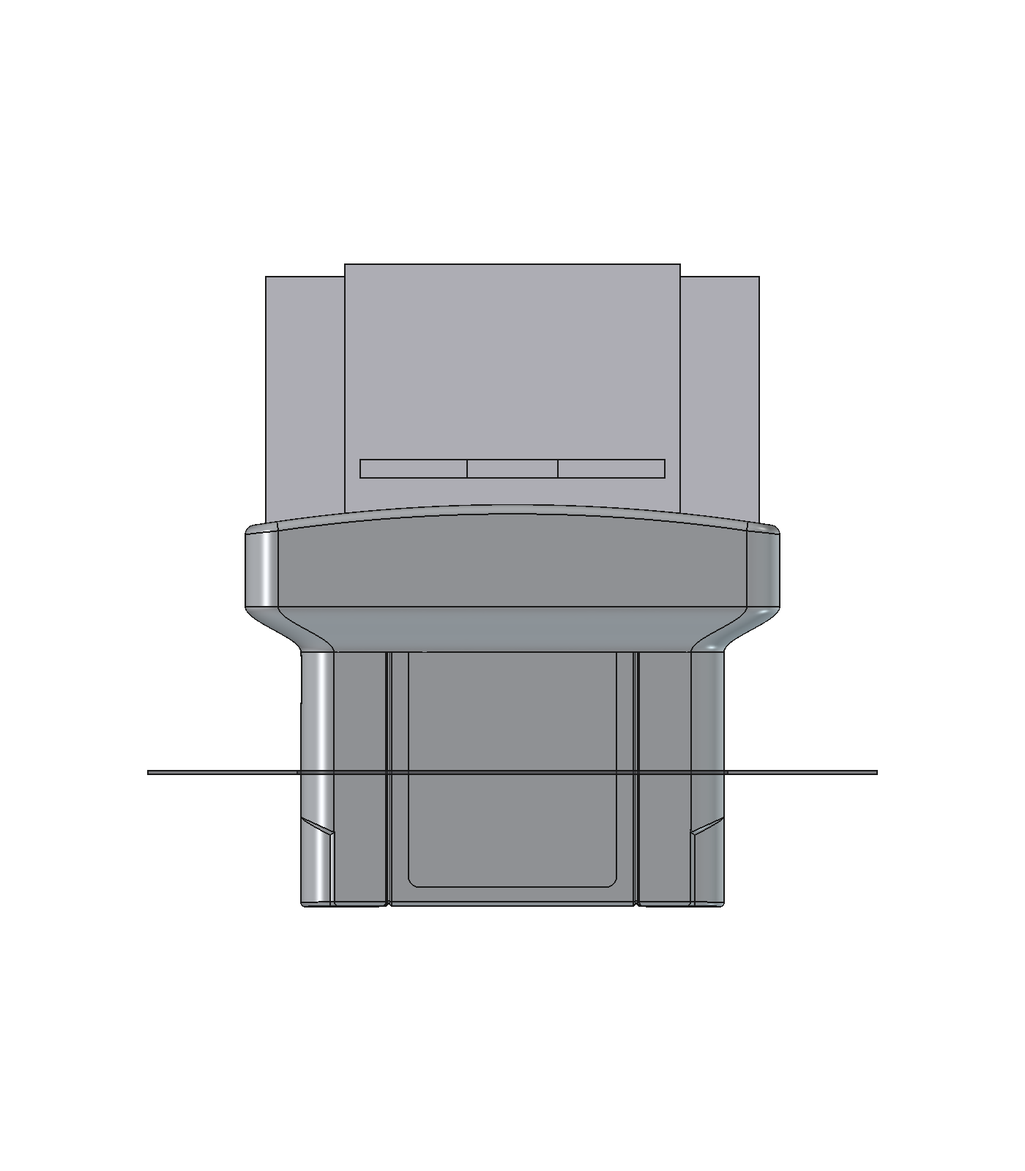
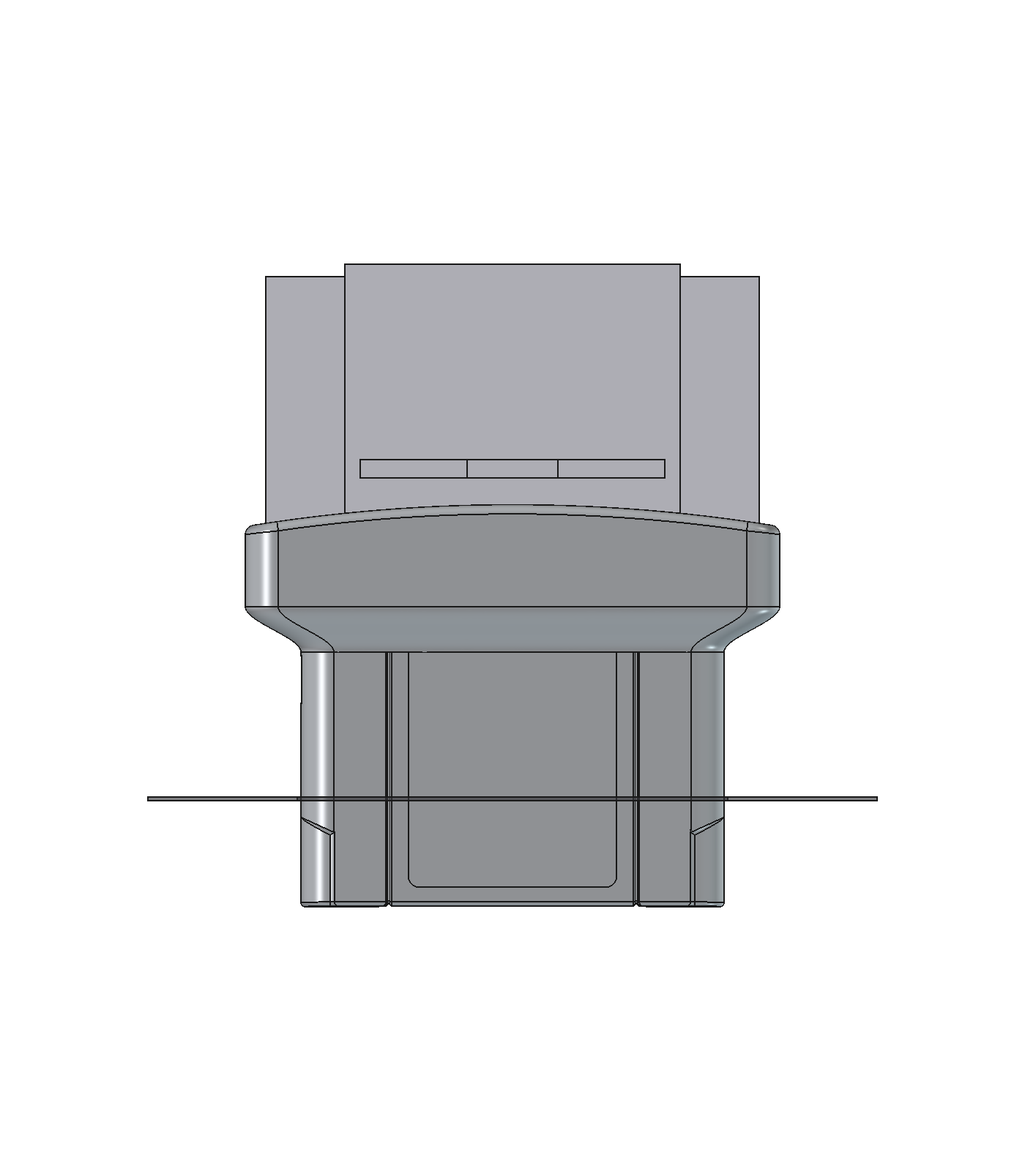
v2 shell: console top measured by the owner; shorter variant drawn as a proposal
The owner measured 30 mm from the console's top surface down to the floor of the
cartridge hole, the same on the N64 and the M64. With the SummerCart64 shell bottom
12.31 mm below the shoulders the console top is 17.7 mm above them (the model had an
assumed 25).

sn64_v2_shell.py now draws two geometries, picked by VARIANT:
- board-70: the board as it is (tracked STEP, STL, shell-*.png); only the console
  line moved.
- short-60: USB-C centre 32.5, 5 mm of plain wall above its window, flare 44-60,
  board top edge 60. Shell 100.3 mm tall instead of 110.3. Pictures short-60-*.png
  and compare-now-vs-short-60.png; its STEP and STL are generated locally.

The board is not changed. The proposal and what it would need on the board are in
docs/design/v2-shell.md; the measurement is in docs/dimensions.md.

Changed region(s): [[0.1536, 0.6562, 0.86, 0.6875]]

diff --git a/mechanical/sn64-v2-shell/sn64_v2_shell.py b/mechanical/sn64-v2-shell/sn64_v2_shell.py
@@ -31,21 +31,34 @@ label side).
 
 Sourced
   SummerCart64 shell geometry and frame (file above; measured in this session)
-  SummerCart64's own USB-C opening spans 25.8-39.2 mm above the shoulders, so the console top line
-      is below about 25 mm
+  console top surface: the owner measured 30 mm from it down to the plastic floor of the cartridge
+      hole, where the cartridge shell rests, the same on the N64 and the M64 (2026-10-01). The shell
+      bottom is 12.31 below the shoulders, so the console top is 17.7 above them.
+  SummerCart64's own USB-C opening spans 25.8-39.2 mm above the shoulders (8 mm above that top)
   board 1.2 thick, tongue 64.5 wide and 10.5 below the shoulders, outline as hardware/sn64-v2
   socket, console-replacement family (OpenSFC CartSlot, docs/dimensions.md): body 99.0 x 11.25,
       ear holes 3.2 at +-47.5, rows 7.0 apart, 85.0 first to last
   USB-C receptacle J101 body 8.94 x 6.9 x 3.16 (its footprint)
-  cartridge shell 136 x 88 x 20 (North American; Wikipedia, unverified; SFC/PAL 130 x 86 x 20)
+  US cartridge: caliper measurements by rainwarrior (NESdev forum t=23890), listed with the constants
 
 Assumed, to be measured before anything is cut
-  console top line drawn at 25; the M64 opening is unknown
-  socket base 6.0 and nose 9.0 high, nose 88 x 9 (one listing: 21 mm overall with tails)
+  socket base 6.0 high (one listing: 21 mm overall with tails); nose from the SNES Jr connector
   cartridge seats with its bottom face on the socket shoulder
-  cap: 5 mm walls, 0.3 mm pocket clearance, rim 21.5 mm above the seat at the centre and 6 mm
-      lower at the ends, flare from 57.5 to 70
+  cap: 5 mm walls, pocket clearance 0.6 / 0.3, rim 21.5 mm above the seat at the centre and 6 mm
+      lower at the ends
   USB-C plug overmold 12.35 x 6.5 (window 13 x 7)
+
+Two geometries, picked by VARIANT below
+  "board-70"  the board in hardware/sn64-v2 as it is: top edge 70 above the shoulders, USB-C centre
+      50, flare 57.5-70. The tracked STEP, STL and shell-*.png show this one.
+  "short-60"  proposal of 2026-10-01 (owner: shorter, with about 5 mm clear on each side of the USB
+      port). NOT applied to the board. 10 mm shorter:
+        USB-C centre 32.5: the lowest the board allows (its side notches for the shell's locating
+            posts end at 26.4) and the height of SummerCart64's own port; window 26.0-39.0, 8.3 above
+            the console top
+        flare from 44.0 (5 above the window) to the board top
+        board top 60.0: translator row (top at 47.7), 8 mm of fan-out, then the socket pads
+      Its files carry "short-60" in the name; the STEP and STL are not tracked.
 
 In the build123d MCP session: execute_file this script. Elsewhere (Python with build123d), run it
 from the repository root: python mechanical/sn64-v2-shell/sn64_v2_shell.py
@@ -79,8 +92,13 @@ NOSE_L, NOSE_D, NOSE_H = 94.9, 8.75, 10.55
 # point, parting notch, front-corner mid, front-corner end. Back corners 1 mm, front corners 9 mm.
 STEM_O = [(56.78, 9.60), (57.476, 9.318), (57.78, 8.63), (58.06, 0.60), (58.00, 0.40), (55.297, -5.830), (49.00, -8.40)]
 
+CART_HOLE_DEPTH = 30.0                  # console top surface down to the plastic floor the cartridge rests on
+                                        # (owner's measurement, N64 and M64, 2026-10-01)
+N64_SHELL_BOTTOM = -12.31               # SummerCart64 shell bottom below the shoulders (its STEP)
+Y_LINE = N64_SHELL_BOTTOM + CART_HOLE_DEPTH   # console top surface above the shoulders: 17.69
+
 # assumed
-WALL, Y_LINE = 2.0, 25.0
+WALL = 2.0
 Y_CUT = 24.5                            # real SummerCart64 shell below, extruded outline above
 SOCK_BASE_H = 6.0
 TAIL_T, TAIL_LAP = 0.5, 3.0
@@ -91,13 +109,23 @@ CART_BACK_TO_PCB = 8.5                  # back face to the PCB mid-plane (ASSUME
                                         # back face flat, the middle section proud on the label side)
 CART_EDGE_RECESS = 2.0                  # bottom face up to the PCB edge (ASSUMED)
 CART_HOLE_UP, NOTCH_D = 13.0, 3.0       # how far the hole and the rear notches go in (ASSUMED)
-Y_F0, Y_F1 = 57.5, 70.0                 # S-curve flare, above the USB-C window
 RIM_ABOVE_SEAT, RIM_SAG = 21.5, 6.0     # arched rim: height at the centre, drop at the ends
 RIM_FILLETS, LIP_CHAMFERS = (2.5, 2.0, 1.5, 1.2), (0.8, 0.5)
 FLARE_U = (0.0, 0.12, 0.25, 0.4, 0.5, 0.6, 0.75, 0.88, 1.0)
+BOARD_W_WIDE, NECK_W = 111.0, 88.0
 
-# board proposal already applied to hardware/sn64-v2 (2026-09-30)
-Y_BOARD_TOP, Y_WIDE0, Y_WIDE1, BOARD_W_WIDE, NECK_W, Y_USB = 70.0, 32.0, 60.0, 111.0, 88.0, 50.0
+VARIANT = "board-70"                    # "board-70": the board as it is; "short-60": the shorter proposal
+if VARIANT == "board-70":               # hardware/sn64-v2 today
+    Y_BOARD_TOP, Y_WIDE0, Y_WIDE1, Y_USB = 70.0, 32.0, 60.0, 50.0
+    Y_F0 = 57.5                         # S-curve flare starts 1 mm above the USB-C window
+elif VARIANT == "short-60":             # proposal, not applied to the board
+    USB_CLEAR = 5.0                     # plain wall above the USB-C window before the flare starts (owner)
+    Y_BOARD_TOP, Y_WIDE0, Y_WIDE1, Y_USB = 60.0, 26.4, 50.0, 32.5
+    Y_F0 = Y_USB + PLUG_W / 2 + USB_CLEAR   # 44.0
+else:
+    raise ValueError(f"unknown VARIANT {VARIANT!r}")
+Y_F1 = Y_BOARD_TOP                      # the flare ends at the board's top edge
+TAG = "" if VARIANT == "board-70" else "-" + VARIANT     # in the names of exported files
 
 # derived
 Y_SOCK0 = Y_BOARD_TOP + 0.5             # socket body underside
@@ -256,7 +284,7 @@ def build():
     usb = box(W_STEM / 2 - WALL - 0.06 - USB_D / 2, Y_USB - USB_W / 2, Y_USB + USB_W / 2, USB_ZC, USB_D, USB_H)
 
     console = (box(0, Y_LINE - 1, Y_LINE, DZ, 200, 90)
-               - box(0, Y_LINE - 2, Y_LINE + 1, DZ, W_STEM + 2, 18.06 + 2))                      # console top (assumed)
+               - box(0, Y_LINE - 2, Y_LINE + 1, DZ, W_STEM + 2, 18.06 + 2))                      # console top surface (measured)
 
     return {"shell": shell, "board": board, "socket": socket, "cartridge": cart, "cart_pcb": cart_pcb,
             "usbc": usb, "console_top": console}
@@ -318,18 +346,18 @@ def viewer_frame(parts):
 
 def export_all(parts, out_dir):
     asm, rotated = viewer_frame(parts)
-    export_step(asm, f"{out_dir}/sn64-v2-shell-assembly.step")
+    export_step(asm, f"{out_dir}/sn64-v2-shell{TAG}-assembly.step")
     # 0.03 mm chord tolerance: well below print resolution, a fraction of the default file size
-    export_stl(asm, f"{out_dir}/sn64-v2-shell-assembly.stl", tolerance=0.03, angular_tolerance=0.2)
-    export_stl(rotated["shell"], f"{out_dir}/sn64-v2-shell-only.stl", tolerance=0.03, angular_tolerance=0.2)
+    export_stl(asm, f"{out_dir}/sn64-v2-shell{TAG}-assembly.stl", tolerance=0.03, angular_tolerance=0.2)
+    export_stl(rotated["shell"], f"{out_dir}/sn64-v2-shell{TAG}-only.stl", tolerance=0.03, angular_tolerance=0.2)
 
 
 def report(parts):
     sh = parts["shell"]
     bb = sh.bounding_box()
-    print(f"shell {bb.size.X:.1f} x {bb.size.Y:.1f} x {bb.size.Z:.1f} mm, bottom {bb.min.Y:.2f}, "
+    print(f"variant {VARIANT}: shell {bb.size.X:.1f} x {bb.size.Y:.1f} x {bb.size.Z:.1f} mm, bottom {bb.min.Y:.2f}, "
           f"solids {len(sh.solids())}, volume {sh.volume / 1000:.1f} cm3, valid {sh.is_valid}")
-    print(f"console line {Y_LINE} (assumed), USB-C centre {Y_USB} ({Y_USB - Y_LINE:.0f} above the line), "
+    print(f"console top {Y_LINE:.2f} above the shoulders (measured: 30 mm hole), USB-C centre {Y_USB} (window {Y_USB - PLUG_W / 2 - Y_LINE:.1f} above the console top, flare {Y_F0 - Y_USB - PLUG_W / 2:.1f} above the window), "
           f"real N64 shell to {Y_CUT}, flare {Y_F0}..{Y_F1}, cartridge seat {Y_TOP}, rim {RIM_C} at the centre and "
           f"{RIM_C - RIM_SAG} at the ends, cap {2 * CAP_HW:.1f} x {2 * CAP_HT:.1f}, cartridge top {Y_TOP + CART_MID_H}")
     print("notes:", "; ".join(NOTES))

diff --git a/docs/design/v2-shell.md b/docs/design/v2-shell.md
@@ -1,6 +1,8 @@
 # SN64 v2 shell: N64 cartridge body with a rounded mushroom cap (look-and-fit model)
 
-**Status (2026-09-30): look-and-fit model for the owner's review. Not a manufacturable enclosure.**
+**Status (2026-10-01): look-and-fit model for the owner's review. Not a manufacturable enclosure.
+The console's top surface is now a measured height. A 10 mm shorter variant is drawn as a proposal
+and waits for the owner's decision; the board has not been changed for it.**
 
 Owner's direction, in order: one continuous vertical item with the SNES cartridge upright on top (a
 first model with the cartridge flat on a shelf was rejected on sight); a mushroom cap so the shell
@@ -18,6 +20,11 @@ locally and kept out of git), renders taken in FreeCAD:
 `shell-port` (the port), `shell-iso`, `shell-iso-back`, `shell-low`, `shell-pocket` (looking into the empty
 pocket) and `section-centre` (cut through the middle). FreeCAD opens the STEP
 directly; Blender imports the STL (File > Import > STL).
+
+The script draws two geometries, picked by `VARIANT` near its top: `board-70`, the board as it is
+(the tracked STEP, STL and `shell-*.png`), and `short-60`, the shorter proposal described below
+(`short-60-*.png`, `compare-now-vs-short-60.png`; its STEP and STL carry `short-60` in the name
+and are generated locally, not tracked).
 
 Frame: X across the board, Y up with 0 at the N64 tongue shoulders, Z out of the board's F.Cu
 face. This is SummerCart64's own shell frame moved 0.6 mm in Z; its two mounting bosses are at
@@ -70,13 +77,13 @@ CERN-OHL-S-2.0), so the shell model is CERN-OHL-S-2.0 too (`mechanical/README.md
 | Cartridge pocket | 136.6 x 20.5, floor at 76.5 (socket shoulder), 1.45 off-centre toward the label side | US cartridge 135.4 x 19.9 (measured, community) + 0.6 / 0.3 clearance; offset **assumed** |
 | Rim | 98.0 at the centre, 92.0 at the ends, fillet 2.5 | assumed |
 | Wall | 2.0 body and stem, 2.0 to 2.9 through the flare, 5.0 around the pocket | SummerCart64 2.0; rest assumed |
-| Console top line | drawn at 25 | **assumed**: SummerCart64's own USB-C opening starts at 25.8, so the console top is lower |
+| Console top surface | 17.7 above the shoulders | **measured by the owner (2026-10-01)**: 30 mm from the top surface down to the floor of the cartridge hole, N64 and M64; the shell bottom is 12.31 below the shoulders |
 | Socket body | 99.0 x 11.25, ear holes 3.2 at 95.0 | OpenSFC console footprint (sourced) |
 | Socket base | 6 high | **assumed**; a marketplace listing gives 21 mm overall |
 | Socket nose | 94.9 x 8.75, 10.55 high, slot 90.5 long with a key in each PCB gap | SNES Jr connector model (sourced, a different connector of the same family) |
 | Board top edge | 70 | socket underside 0.5 above it |
 | Cartridge | US shape: 135.4 wide, middle 92.2 x 19.9 x 87.5, sides 17.0 x 84.2; seat at 76.5, top at 164.0 | NESdev forum measurements (community, "a little rough") |
-| USB-C window | 13 x 7 in the right wall at 50 | plug envelope 12.35 x 6.5 **assumed** |
+| USB-C window | 13 x 7 in the right wall at 50, 25.8 above the console top | plug envelope 12.35 x 6.5 **assumed** |
 | Overall shell | 146.6 x 110.3 x 30.5, one valid solid | derived |
 
 Fit check with this shell: the KiCad board STEP with every part model, plus an envelope for the
@@ -114,6 +121,60 @@ Still assumed, and needing two caliper readings on a real US cartridge:
 2. From the cartridge's bottom face up to the PCB's edge (drawn 2.0 mm). This sets how far the
    contacts overlap the fingers.
 
+## Shorter proposal (2026-10-01, awaiting the owner's decision; the board is not changed)
+
+The owner asked whether the unit could be shorter while keeping about 5 mm clear on each side of the
+USB port, and measured the console: its top surface is 30 mm above the floor of the cartridge hole,
+17.7 mm above the board's shoulders. The script draws both geometries (`VARIANT` at the top:
+`board-70` is the board as it is, `short-60` the proposal). Picture of the two side by side:
+`compare-now-vs-short-60.png`; the proposal alone: `short-60-*.png`.
+
+| | Now (`board-70`) | Shorter (`short-60`) |
+|---|---|---|
+| Board top edge above the shoulders | 70 | 60 |
+| USB-C centre | 50 | 32.5 |
+| USB-C window | 43.5 to 56.5 | 26.0 to 39.0 |
+| Console top to the window | 25.8 | 8.3 |
+| Plain wall between the window and the flare | 1.0 | 5.0 |
+| Flare | 57.5 to 70 | 44 to 60 |
+| Cartridge seat | 76.5 | 66.5 |
+| Rim, centre / ends | 98 / 92 | 88 / 82 |
+| Shell height | 110.3 | 100.3 |
+| Top of a US cartridge above the console top | 146.3 | 136.3 |
+
+What sets each number in the proposal:
+
+- **USB-C at 32.5.** The receptacle needs the 111 mm wide part of the board, and that part cannot start
+  below 26.4 mm: under it the board keeps SummerCart64's 101.8 mm width and the notches for the
+  shell's two locating posts, which end at 26.4. 32.5 is also the height of SummerCart64's own USB-C
+  opening (25.8 to 39.2), which is used with the cartridge in the console.
+- **Flare from 44.** 5 mm of plain wall above the window, as asked.
+- **Top edge at 60.** The flare ends at the board's top edge, where the socket sits. The translator
+  row ends at 47.7 mm; the socket pads would take 56.0 to 59.5, which leaves about 8 mm for the
+  fan-out between them. Today that fan-out has 18 mm.
+
+Checked in the model: the shell is one valid solid; no interference between shell, board outline,
+socket, cartridge, cartridge PCB and USB receptacle; the cartridge and socket checks are unchanged.
+
+What the board would need (not done, and not proven):
+
+- Outline: 111 mm wide from 26.4 to 50, the 88 mm neck from 50 to 60, top edge at 60. J2's pads move
+  down 10 mm with it.
+- USB-C J101, its ESD part and VBUS capacitor to the right edge at 32.5; top mounting holes H5/H6 up
+  to about 44.5 so they clear the receptacle. Five USB nets routed again.
+- The socket nets routed again in the 8 mm band. Measured on the board as it is: 56 of the socket's
+  60 nets are signals that end on the translator row (the others are ground, 5 V and the two audio
+  inputs); the 18 mm band holds about 1.1 m of sideways copper and 96 vias on the socket's nets; and
+  with the chips where they are at most 24 of the 56 signals have to pass any one point sideways.
+  Three routing layers hold about 29 tracks each in 8 mm, so it is expected to route, but it is not
+  proven until the router has done it. If it does not finish at 60, the fallback is a top edge a few
+  millimetres higher.
+- Planes and pours to the new outline, then DRC, the open-connection report, the board STEP and the
+  fit check in the `short-60` shell.
+
+Going shorter than this means moving the translator row down or giving the translators' channels
+the socket's pin order (schematic, FPGA pin plan and a new route of that area). Neither is proposed.
+
 ## Board refit to this shell (done 2026-09-30)
 
 `hardware/sn64-v2/tools/refit_tower_v2.py` changed the routed board in place of a full re-layout:
@@ -125,7 +186,8 @@ Still assumed, and needing two caliper readings on a real US cartridge:
   pieces were removed and the socket nets routed again from the translators.
 - Outline: 101.8 mm wide to 32 mm above the shoulders, 111 mm to 60 mm, then an 88 mm neck to the
   top edge at 70 mm; the SummerCart64 part below 26.4 mm is unchanged.
-- USB-C J101 at the right edge 50 mm above the shoulders (22 mm above the assumed console line),
+- USB-C J101 at the right edge 50 mm above the shoulders (32 mm above the console's top surface as
+  measured on 2026-10-01; the line was assumed 10 mm higher when this was done),
   turned to face outward with the JAE reference 0.5 mm front overhang. Its ESD part and VBUS
   capacitor moved with it; the series and pull-up resistors stay beside the FPGA with their routing.
   The five nets that reach the moved parts were cut at the old connector and routed again.
@@ -169,7 +231,9 @@ groups, which carry the cartridge audio inputs (pins 31 and 62, used by FXPAK Pr
   Super Famicom or PAL cartridge.
 - Buy one sample socket and measure it: height, nose, tail length and section, ear shape and hole
   spacing, and how deep a cartridge seats.
-- Console top line (N64) and the M64 opening.
+- The owner's decision on the shorter proposal.
+- The shape of the console's top surface around the cartridge hole, N64 and M64. Its height is
+  measured; what a part wider than the hole can meet on the way down is not.
 - SFC and PAL cartridges are 130 mm wide against the 136.6 mm pocket: guide ribs to centre them.
 - Pocket depth against grip: the cartridge must still be easy to pull out by its top.
 - Split line (SummerCart64's halves part at the board's back face), screws for the upper part (the

diff --git a/CLAUDE.md b/CLAUDE.md
@@ -17,7 +17,7 @@ Original carts, Super EverDrive X5/X6 and FXPAK Pro are first-class targets. Man
 |---|---|---|
 | FPGA | Whole design (SNES core, cartridge bridge, N64 endpoint + CIC, SNES CIC lock, ROM-header region probe, power sequencer, Si5351 start-up, console video path (frame/audio window), cartridge audio, flash boot ROM) in `sn64_board_top`; full simulation suite passes; routed on the 85F with the real pinout, all clocks pass | `fpga/` |
 | KiCad | Complete schematic draft: N64 edge J1, SNES socket J2, USB-C programmer, cartridge interface (rev 0.3.1), FPGA with real pinout, power, clock/audio sheets (HDMI output removed 2026-09-29); all static checks pass. **PCB: first autorouted draft (2026-09-30): fan-out, planes, ~80 % of signals; 75 nets and 219 plane pads still open, no DRC shorts; see `docs/design/pcb-routing.md`. `build_main_pcb.py --force` discards the routing.** | `hardware/sn64/` |
-| Mechanical | FreeCAD fit references: SNES hole-pattern coupon, SummerCart64 N64 board reference. v2 shell: look-and-fit model (build123d): the real N64 cartridge lower body from SummerCart64's shell, the same outline as the stem, and a rounded mushroom cap that holds the upright SNES cartridge (`mechanical/sn64-v2-shell/`, `docs/design/v2-shell.md`); no manufacturable enclosure. | `mechanical/` |
+| Mechanical | FreeCAD fit references: SNES hole-pattern coupon, SummerCart64 N64 board reference. v2 shell: look-and-fit model (build123d): the real N64 cartridge lower body from SummerCart64's shell, the same outline as the stem, and a rounded mushroom cap that holds the upright SNES cartridge (`mechanical/sn64-v2-shell/`, `docs/design/v2-shell.md`); no manufacturable enclosure. Console top surface: 17.7 mm above the board's shoulders (owner measured 30 mm from it to the floor of the cartridge hole, N64 and M64, 2026-10-01). The script's `VARIANT` draws the board as it is (`board-70`) or a 10 mm shorter proposal (`short-60`: top edge 60, USB-C at 32.5) that waits for the owner's decision and is not applied to the board. | `mechanical/` |
 | **v2 (branch `v2`, 2026-09-30)** | FPGA absorbs USB (TinyFPGA protocol on two pins), clocks (27 MHz + 3 PLLs), cartridge audio (sigma-delta) and rail telemetry (one I2C ADC); N64 bus switches dropped; four 16-bit translators + one hex open-drain driver. **One vertical board** (SummerCart64 edge geometry, 101.8 x 80.5 mm, 6 layers) with the SNES cartridge upright on top, in line (owner decision): the socket (console type with ears) goes on the board's top edge with its tails on both faces and its ears screwed into the shell; board refitted 2026-09-30 to the mushroom-cap tower shell (socket footprint on the top edge, outline 111 mm wide at the USB-C, USB-C 50 mm above the shoulders; `tools/refit_tower_v2.py`, `docs/design/v2-shell.md`), 213 of 218 signal nets fully connected. 176 parts. Generated schematic (ERC 0 errors), sim suite passes, FPGA routed with timing met, open items for hand routing in `hardware/sn64-v2/validation/pcb-open-connections.json`. **Write-up: `docs/design/v2-board.md`.** | `hardware/sn64-v2/`, `fpga/rtl/sn64_board_top.sv` |
 
 ## Decisions the user has made (keep them)

diff --git a/docs/project-work-log.md b/docs/project-work-log.md
@@ -223,3 +223,16 @@ The repository turned out to be public already (created public on 2026-09-29; on
 ## 2026-10-01 — local user-folder paths removed from the tracked files
 
 The repository is public and its notes, scripts, check reports and KiCad netlists carried absolute paths with the Windows user folder in them. No file from outside the project was ever uploaded; the exposure was the folder name inside those paths. `tools/scrub_local_paths.py` now replaces that prefix in every tracked text file (`%USERPROFILE%` in notes, reports and netlists, `$env:USERPROFILE` in PowerShell scripts, `$HOME` in shell scripts and snippets); it reads the name from the PC at run time, so the tool does not contain it. Scripts still resolve their tools; JSON and XML reports still parse. A local pre-commit hook refuses commits that contain the path. Applied to the tips of all public branches. Earlier commits still hold the old text until the history is rewritten, which is the owner's call.
+
+## 2026-10-01 — console top measured by the owner; shorter shell drawn as a proposal
+
+The owner measured the cartridge hole on an N64 and an M64: 30 mm from the console's top surface down to the plastic floor the cartridge shell rests on, the same on both. With the SummerCart64 shell bottom 12.31 mm below the shoulders, the console's top surface is 17.7 mm above the shoulders. The shell model had it at an assumed 25 mm. Recorded in [dimensions.md](dimensions.md).
+
+He had also asked whether the unit could be shorter with about 5 mm clear on each side of the USB port. [sn64_v2_shell.py](../mechanical/sn64-v2-shell/sn64_v2_shell.py) now draws two geometries, picked by `VARIANT`:
+
+- `board-70`: the board as it is. Nothing moved except the console line; the USB-C window turns out to be 25.8 mm above the console top.
+- `short-60`: USB-C centre at 32.5 mm (the lowest the board's side notches allow, and the height of SummerCart64's own port), 5 mm of plain wall above its window, flare from 44 to the board's top edge at 60. Shell 100.3 mm tall instead of 110.3; the cartridge sits 10 mm lower. One valid solid, no interference, cartridge and socket checks unchanged.
+
+Picture of both side by side: [compare-now-vs-short-60.png](../mechanical/sn64-v2-shell/compare-now-vs-short-60.png). Details and the before/after table: [v2-shell.md](design/v2-shell.md), "Shorter proposal".
+
+**The board is not changed.** The proposal needs the socket's fan-out routed again in 8 mm instead of 18 mm. Measured on the routed board: at most 24 of the 56 translator nets have to pass any one point sideways, which three routing layers hold in 8 mm, so it is expected to route but is not proven. Waiting for the owner's decision before touching the board.

diff --git a/mechanical/README.md b/mechanical/README.md
@@ -45,4 +45,4 @@ Next mechanical work is qualifying the actual socket, selecting the SN64 board/s
 
 ## v2 shell (look-and-fit model)
 
-[sn64-v2-shell/sn64_v2_shell.py](sn64-v2-shell/sn64_v2_shell.py) builds the v2 shell with build123d: an N64 cartridge body with a rounded mushroom cap that holds the upright SNES cartridge. Write-up: [docs/design/v2-shell.md](../docs/design/v2-shell.md). Its lower body (below 24.5 mm above the board's shoulders) and the outline of its stem derive from [SummerCart64's shell](https://github.com/Polprzewodnikowy/SummerCart64/tree/a1e7996d2cbece686820a5c785029c68514f17b0/hw/shell) (`injection mold/sc64_shell.stp`, SHA-256 `211ab021...` in [shell-inspection.json](shell-inspection.json)) under the same [CERN-OHL-S-2.0 hardware notice](licenses/SummerCart64-PCB-CERN-OHL-S-2.0.txt), so the v2 shell model is CERN-OHL-S-2.0 as well. Changes: both halves fused and moved 0.6 mm so the board's mid-plane is the datum, cut at 24.5 mm, one support post and 1.3 mm of the right locating post removed, upper part replaced by the extruded outline, an S-curve flare and the cap. The upstream author does not endorse SN64 or these changes.
+[sn64-v2-shell/sn64_v2_shell.py](sn64-v2-shell/sn64_v2_shell.py) builds the v2 shell with build123d: an N64 cartridge body with a rounded mushroom cap that holds the upright SNES cartridge. Write-up: [docs/design/v2-shell.md](../docs/design/v2-shell.md). Its lower body (below 24.5 mm above the board's shoulders) and the outline of its stem derive from [SummerCart64's shell](https://github.com/Polprzewodnikowy/SummerCart64/tree/a1e7996d2cbece686820a5c785029c68514f17b0/hw/shell) (`injection mold/sc64_shell.stp`, SHA-256 `211ab021...` in [shell-inspection.json](shell-inspection.json)) under the same [CERN-OHL-S-2.0 hardware notice](licenses/SummerCart64-PCB-CERN-OHL-S-2.0.txt), so the v2 shell model is CERN-OHL-S-2.0 as well. Changes: both halves fused and moved 0.6 mm so the board's mid-plane is the datum, cut at 24.5 mm, one support post and 1.3 mm of the right locating post removed, upper part replaced by the extruded outline, an S-curve flare and the cap. The upstream author does not endorse SN64 or these changes. `VARIANT` near the top of the script picks the geometry: `board-70` matches the board as it is, `short-60` is a 10 mm shorter proposal that has not been applied to the board.

diff --git a/docs/dimensions.md b/docs/dimensions.md
@@ -102,3 +102,11 @@ US SNES cartridge, caliper measurements by rainwarrior, [NESdev forum t=23890](h
 The same thread gives a Super Famicom cartridge as 129 x 87 x 20 (jeffythedragonslayer). Not in the thread: which face the thicker middle section stands proud on, how far the PCB edge is from the bottom face, and where the PCB lies front to back; these need two caliper readings on a real cartridge.
 
 Console connector nose, from the SNES Jr connector model in [kicad-snn-cpu-01](https://github.com/qwertymodo/kicad-snn-cpu-01) (commit `a0018661`, CERN-OHL-S-2.0, `SNES_Cartridge_Connector_1pc.step`, SHA-256 `7621e92d...`; simplified, no slot or pins), sectioned 2026-10-01: base 151.8 x 15.0 up to 4.0, then 107.95 x 15.0 to 8.0, 107.95 x 8.75 to 13.0, and the nose 94.9 x 8.75 from 13.0 to 23.55 (10.55 high). The nose has 1.3 mm each side in width and 1.08 mm front to back in the measured 97.5 x 10.9 hole, so the two sources agree. It is a different connector from the SHVC replacement socket SN64 uses; its nose stands in for ours until the sample is measured.
+
+## Console cartridge hole depth (measured by the owner, 2026-10-01)
+
+Measured by the owner on an original N64 and on a ModRetro M64: **30 mm** from the console's top surface down to the plastic floor of the cartridge hole, which is the surface the bottom face of a cartridge shell rests on. The same on both consoles. The instrument and its tolerance were not recorded; treat the figure as good to about a millimetre until it is taken again with calipers.
+
+Derived: the bottom face of the SummerCart64 shell is 12.31 mm below the board's tongue shoulders (its STEP), so the console's top surface is **17.7 mm above the shoulders** (17.69 in the shell model). This replaces the assumed 25 mm (28 mm before that). Cross-check: SummerCart64's own USB-C opening spans 25.8 to 39.2 mm above the shoulders, 8.1 mm above this surface, and that port is made to be used while the cartridge sits in the console.
+
+Not measured: the shape of the top surface around the hole and how far a part wider than the hole can come down before it meets the console. The shell starts to widen toward its cap 40 mm above the surface with the board as it is, 26 mm in the shorter proposal (`docs/design/v2-shell.md`).

diff --git a/docs/design/v2-board.md b/docs/design/v2-board.md
@@ -101,7 +101,7 @@ footprint exposed-pad size; USB pull-up switched only after PLL lock.
 ## Open items
 
 - Routing after the tower refit: 3,551 tracks, 1,034 vias, 213 of 218 signal nets fully connected, 6 unconnected items (FLASH_D2, FPGA_3V3, N64_AD6, N64_JOYBUS, USB_DP_F, USB_PU); DRC errors: 5 starved_thermal. Remaining items are listed in `validation/pcb-open-connections.json` for hand routing in KiCad.
-- Shell: envelope model only (`docs/design/v2-shell.md`, `mechanical/sn64-v2-shell/`): upright tower, socket ears screwed to brackets in the shell. The board changes it asks for (socket on the top edge, outline widened for the USB-C, USB-C above the console line) are listed there and not made yet.
+- Shell: envelope model only (`docs/design/v2-shell.md`, `mechanical/sn64-v2-shell/`): upright tower, socket ears screwed to brackets in the shell. The board was refitted to it on 2026-09-30 (socket on the top edge, outline widened for the USB-C, USB-C above the console's top). A 10 mm shorter variant (top edge at 60 mm, USB-C at 32.5 mm) is drawn there as a proposal and has not been applied to the board.
 - PCBWay: annular ring (6 mil) and spacing (5 mil) against the 0.125 / 0.1 mm rules, as in v1.
 - Four-layer trial: with 210 fan-out vias and signals on the outer rings a four-layer stack may
   route; not tried yet.
